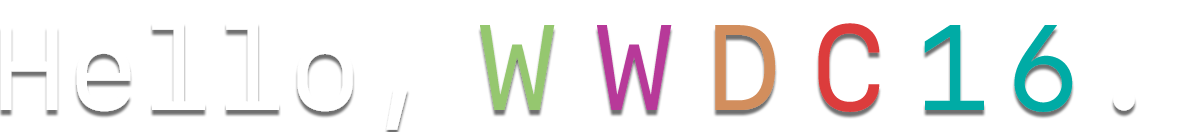
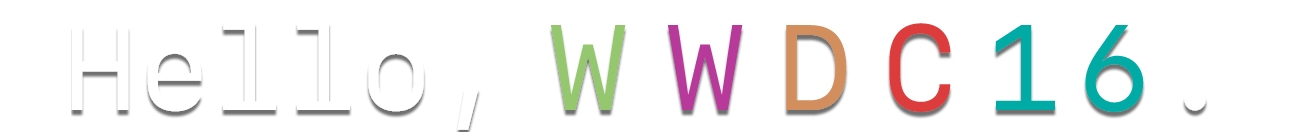
responsive for iphones

diff --git a/public/index.html b/public/index.html
@@ -40,116 +40,127 @@
 
 <body id="main" class="base-swag">
 
-  <div class="maincontentarea">
-    <div class="wwdc">
-      <div class="wwdc__marketingfoobar">
 
-    </br>
+  <div id="container">
+
+    <div class="maincontentarea">
+      <div class="wwdc">
+        <div class="wwdc__marketingfoobar">
+
+      </br>
+
+      <center>
+        <a class="unicorn7-link" href="http://developer.apple.com/wwdc/live">
+          <img class="unicorn7-link" style="width:699px" src="hero_large_2x.png"></img>
+        </a>
+      </center>
 
     <center>
-      <a class="unicorn7-link" href="http://developer.apple.com/wwdc/live">
-        <img class="unicorn7-link" style="width:699px" src="hero_large_2x.png"></img>
-      </a>
-    </center>
+      <p class="comment">
+        /* Join us here on June 13 at 10 a.m. PDT</br>
+        to watch the WWDC keynote live. */</p>
 
-  <center>
-    <p>
-      /* Join us here on June 13 at 10 a.m. PDT</br>
-      to watch the WWDC keynote live. */</p>
-      
-      <div class="at-countdown" id="at-countdown">
+        <div class="at-countdown" id="at-countdown">
 
-        <div class="at-col col1">
-          <!--<span class="at-days-label"></span>-->
-          <div class="space"></div>
-          <span class="unicorn6" style="font-size:30px;">var
-          </span>
-          <span class="unicorn7" style="font-size:30px;">daysLeft =
-          </span>
-          <!--<span class="unicorn5">"</span>-->
-          <span class="at-days" style="font-size:30px;"></span>
-          <!--<span class="unicorn5">"</span>-->
-        </div>
-        <div class="at-col col2">
-          <!--<span class="at-hours-label"></span>-->
-          <div class="space"></div>
-          <span class="unicorn6" style="font-size:30px;">var
-          </span>
-          <span class="unicorn7" style="font-size:30px;">hoursLeft =
-          </span>
-          <!--<span class="unicorn5">"</span>-->
-          <span class="at-hours" style="font-size:30px;"></span>
-          <!--<span class="unicorn5">"</span>-->
-        </div>
-        <div class="at-col col3">
-          <!--<span class="at-minutes-label"></span>-->
-          <div class="space"></div>
-          <span class="unicorn6" style="font-size:30px;">var
-          </span>
-          <span class="unicorn7" style="font-size:30px;">minutesLeft =
-          </span>
-          <!--<span class="unicorn5">"</span>-->
-          <span class="at-minutes" style="font-size:30px;">
-            <!--</span><span class="unicorn5">"</span>-->
-          </div>
-          <div class="at-col col4">
-            <!--<span class="at-seconds-label"></span>-->
+          <div class="at-col col1">
+            <!--<span class="at-days-label"></span>-->
             <div class="space"></div>
-            <span class="unicorn6" style="font-size:30px;">var
+            <span class="unicorn6" >var
             </span>
-            <span class="unicorn7" style="font-size:30px;">secondsLeft =
+            <span class="unicorn7" >daysLeft =
             </span>
             <!--<span class="unicorn5">"</span>-->
-            <span class="at-seconds" style="font-size:30px;">
+            <span class="at-days" ></span>
+            <!--<span class="unicorn5">"</span>-->
+          </div>
+          <div class="at-col col2">
+            <!--<span class="at-hours-label"></span>-->
+            <div class="space"></div>
+            <span class="unicorn6" >var
+            </span>
+            <span class="unicorn7" >hoursLeft =
+            </span>
+            <!--<span class="unicorn5">"</span>-->
+            <span class="at-hours" ></span>
+            <!--<span class="unicorn5">"</span>-->
+          </div>
+          <div class="at-col col3">
+            <!--<span class="at-minutes-label"></span>-->
+            <div class="space"></div>
+            <span class="unicorn6" >var
+            </span>
+            <span class="unicorn7" >minutesLeft =
+            </span>
+            <!--<span class="unicorn5">"</span>-->
+            <span class="at-minutes" >
               <!--</span><span class="unicorn5">"</span>-->
             </div>
+            <div class="at-col col4">
+              <!--<span class="at-seconds-label"></span>-->
+              <div class="space"></div>
+              <span class="unicorn6" >var
+              </span>
+              <span class="unicorn7" >secondsLeft =
+              </span>
+              <!--<span class="unicorn5">"</span>-->
+              <span class="at-seconds" >
+                <!--</span><span class="unicorn5">"</span>-->
+              </div>
 
-            <p class="redirect-info">
-              You will be <b>Swiftly</b> redirected to the live stream when this counter runs out
-            </p>
+              <p class="redirect-info">
+                You will be <b>Swiftly</b> redirected to the live stream when this counter runs out
+              </p>
 
 
-            <a class="add-to-cal" href="event.ics">
-              <i class="fa fa-calendar" aria-hidden="true"></i>
-              addToYourCalendar()
-            </a>
+              <a class="add-to-cal" href="event.ics">
+                <i class="fa fa-calendar" aria-hidden="true"></i>
+                addToYourCalendar()
+              </a>
 
 
-            <a class="add-to-cal" href="http://apple-wwdc-2016.herokuapp.com">
-              <i class="fa fa-slack" aria-hidden="true"></i>
-              joinTheDiscussion()
-            </a>
-          </center>
+              <a style="margin-bottom:60px" class="add-to-cal" href="http://apple-wwdc-2016.herokuapp.com">
+                <i class="fa fa-slack" aria-hidden="true"></i>
+                joinTheDiscussion()
+              </a>
+            </center>
+
+
+          </div>
 
 
         </div>
 
 
-      </div>
-
-      <footer>
-
-        <a href="https://github.com/avatsaev/wwdc16-countdown">
-          <i class="fa fa-github" aria-hidden="true"></i>
-        </a>
-
-        <a href="https://twitter.com/avatsaev">
-          <i class="fa fa-twitter" aria-hidden="true"></i>
-        </a>
 
 
 
-      </footer>
+
+
+  </div>
+
+  <div id="footer">
+
+    <a href="https://github.com/avatsaev/wwdc16-countdown">
+      <i class="fa fa-github" aria-hidden="true"></i>
+    </a>
+
+    <a href="https://twitter.com/avatsaev">
+      <i class="fa fa-twitter" aria-hidden="true"></i>
+    </a>
 
 
 
-      <script src="jquery-1.11.2.min.js"></script>
-      <script src="jquery.appletimer.js"></script>
-
-      <!-- Init Countdown plugin -->
-
-      <script src="./main.js"></script>
+  </div>
 
 
-    </body>
-    </html>
+
+  <script src="jquery-1.11.2.min.js"></script>
+  <script src="jquery.appletimer.js"></script>
+
+  <!-- Init Countdown plugin -->
+
+  <script src="./main.js"></script>
+
+
+  </body>
+</html>

diff --git a/public/style.css b/public/style.css
@@ -2,13 +2,16 @@
   color:#52bc57;
 }
 
-footer{
+#footer{
   position: absolute;
+  right: 0;
   bottom: 0;
-  width: 100%;
+  left: 0;
+
+  text-align: center;
 }
 
-footer a{
+#footer a{
   color: #96989f;
   font-size: 19px;
   text-decoration: none;
@@ -48,8 +51,7 @@ a.add-to-cal:hover{
 .redirect-info{
   color: #96989f;
   font-size: 13px;
-  margin-bottom: 30px;
-  margin-top: 30px;
+  margin: 30px 10px;
 }
 
 .unicorn2{
@@ -80,6 +82,7 @@ a.add-to-cal:hover{
   color:white;
   cursor:pointer;
   max-width: 100%;
+  margin-top: 50px;
 
 
 }
@@ -261,16 +264,27 @@ a.add-to-cal:hover{
 
 .unicorn8{color: #94c66e}
 
+html {
+  height: 100%;
+  box-sizing: border-box;
+}
+
 body {
+
+  position: relative;
+  margin: 0;
+  min-height: 100%;
+
   background-color: #292c36;
   color: #52bc57;
   /*margin: 2em 22px;*/
   font-family: 'Roboto Mono', monospace;
   font-size: 23px;
   line-height: 1.6;
-
+  height: 100%;
   -webkit-font-smoothing: antialiased;
   -moz-osx-font-smoothing: grayscale;
+
 }
 
 
@@ -278,4 +292,37 @@ body {
 .wwdc__marketingfoobar {
   /*	margin-bottom: 80px;*/
   color: map-get($colors, 'unicorn8');
+}
+
+#container {
+   min-height:100%;
+   width: 100%;
+   position:relative;
+}
+
+
+@media screen and (min-width: 320px) and (max-width: 414px) {
+    .at-countdown{
+      font-size: 25px !important;
+    }
+
+    .comment{
+      font-size: 20px !important;
+      margin-left: 5px;
+      margin-right: 5px;
+    }
+
+    .redirect-info{
+      font-size: 14px;
+      margin: 30px 10px;
+    }
+
+    .unicorn7-link {
+      margin-top: 0px;
+    }
+}
+
+
+.at-countdown{
+  font-size: 32px;
 }
